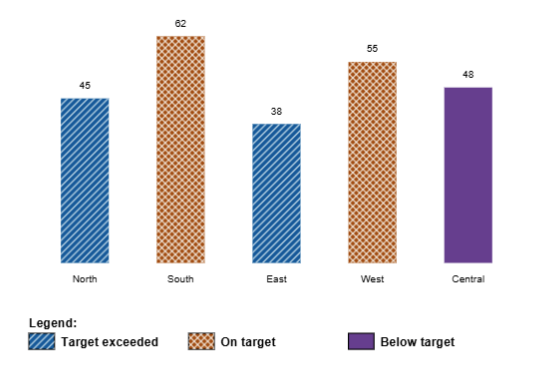
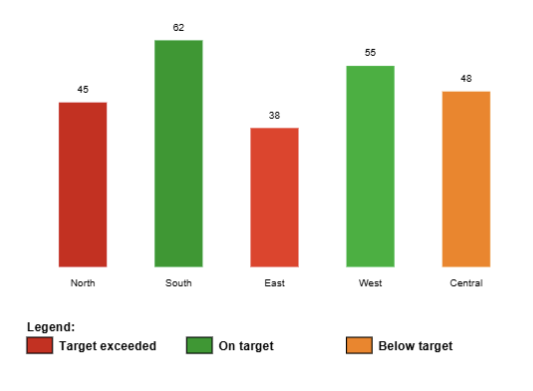
docs: correct bar chart example image order

diff --git a/colorblind-pdf-fixer/references/correction-rules.md b/colorblind-pdf-fixer/references/correction-rules.md
@@ -1,6 +1,6 @@
 # Correction rules for protanopia
 
-Use the original figure and its DaltonLens protanopia simulation together. The simulation is a visual aid, not proof that a person with protanopia will see the exact same result. Base every correction on the chart's labels, legend, values, and visible relationships; color similarity by itself does not establish meaning.
+Use the original figure and its DaltonLens protanopia simulation together. The simulation is a likely visualisation of what a person with protanopia will see. Base every correction on the chart's labels, legend, values, and visible relationships; color similarity by itself does not establish meaning. ALWAYS keep the image original intent.
 
 ## Recoloring
 
@@ -19,4 +19,22 @@ Use the original figure and its DaltonLens protanopia simulation together. The s
 
 ## Uncertain or unsupported figures
 
-Leave a category unchanged when its association or boundary is uncertain. Do not infer a category from color alone. Do not apply hatching or line styles to a raster region unless the implementation provides a reliable mask or path. Record what could not be safely changed so the user can review it.
+Leave a category unchanged when its association or boundary is uncertain. Do not infer a category from color alone. Do not apply hatching or line styles to a raster region unless the implementation provides a reliable mask or path. Record what could not be safely changed.
+
+# For charts  
+
+## For category charts (bar, pie, column, etc.)
+
+- Use a lot hatching and recoloring as they will give the best results. 
+
+## Worked example: categorical bar chart
+
+The paired example in `../assets/examples/` shows the original chart and a supported correction. Categories are established by the legend; the correction applies each color consistently to its bars and legend swatch, then adds hatching as a non-color cue. Keep the values and category meanings unchanged. Treat this as an example, not a fixed palette for other charts.
+
+| Original | Corrected example |
+| --- | --- |
+| ![Original bar chart with red, green, and orange category fills](../assets/examples/bar-chart-before.png) | ![Corrected bar chart with consistent blue, orange, and purple fills, with hatching on two categories](../assets/examples/bar-chart-after.png) |
+
+## For timeseries charts (line, etc.)
+
+- Use more lines related changes : making the lines dashed, dotted, and dash-dot. 
